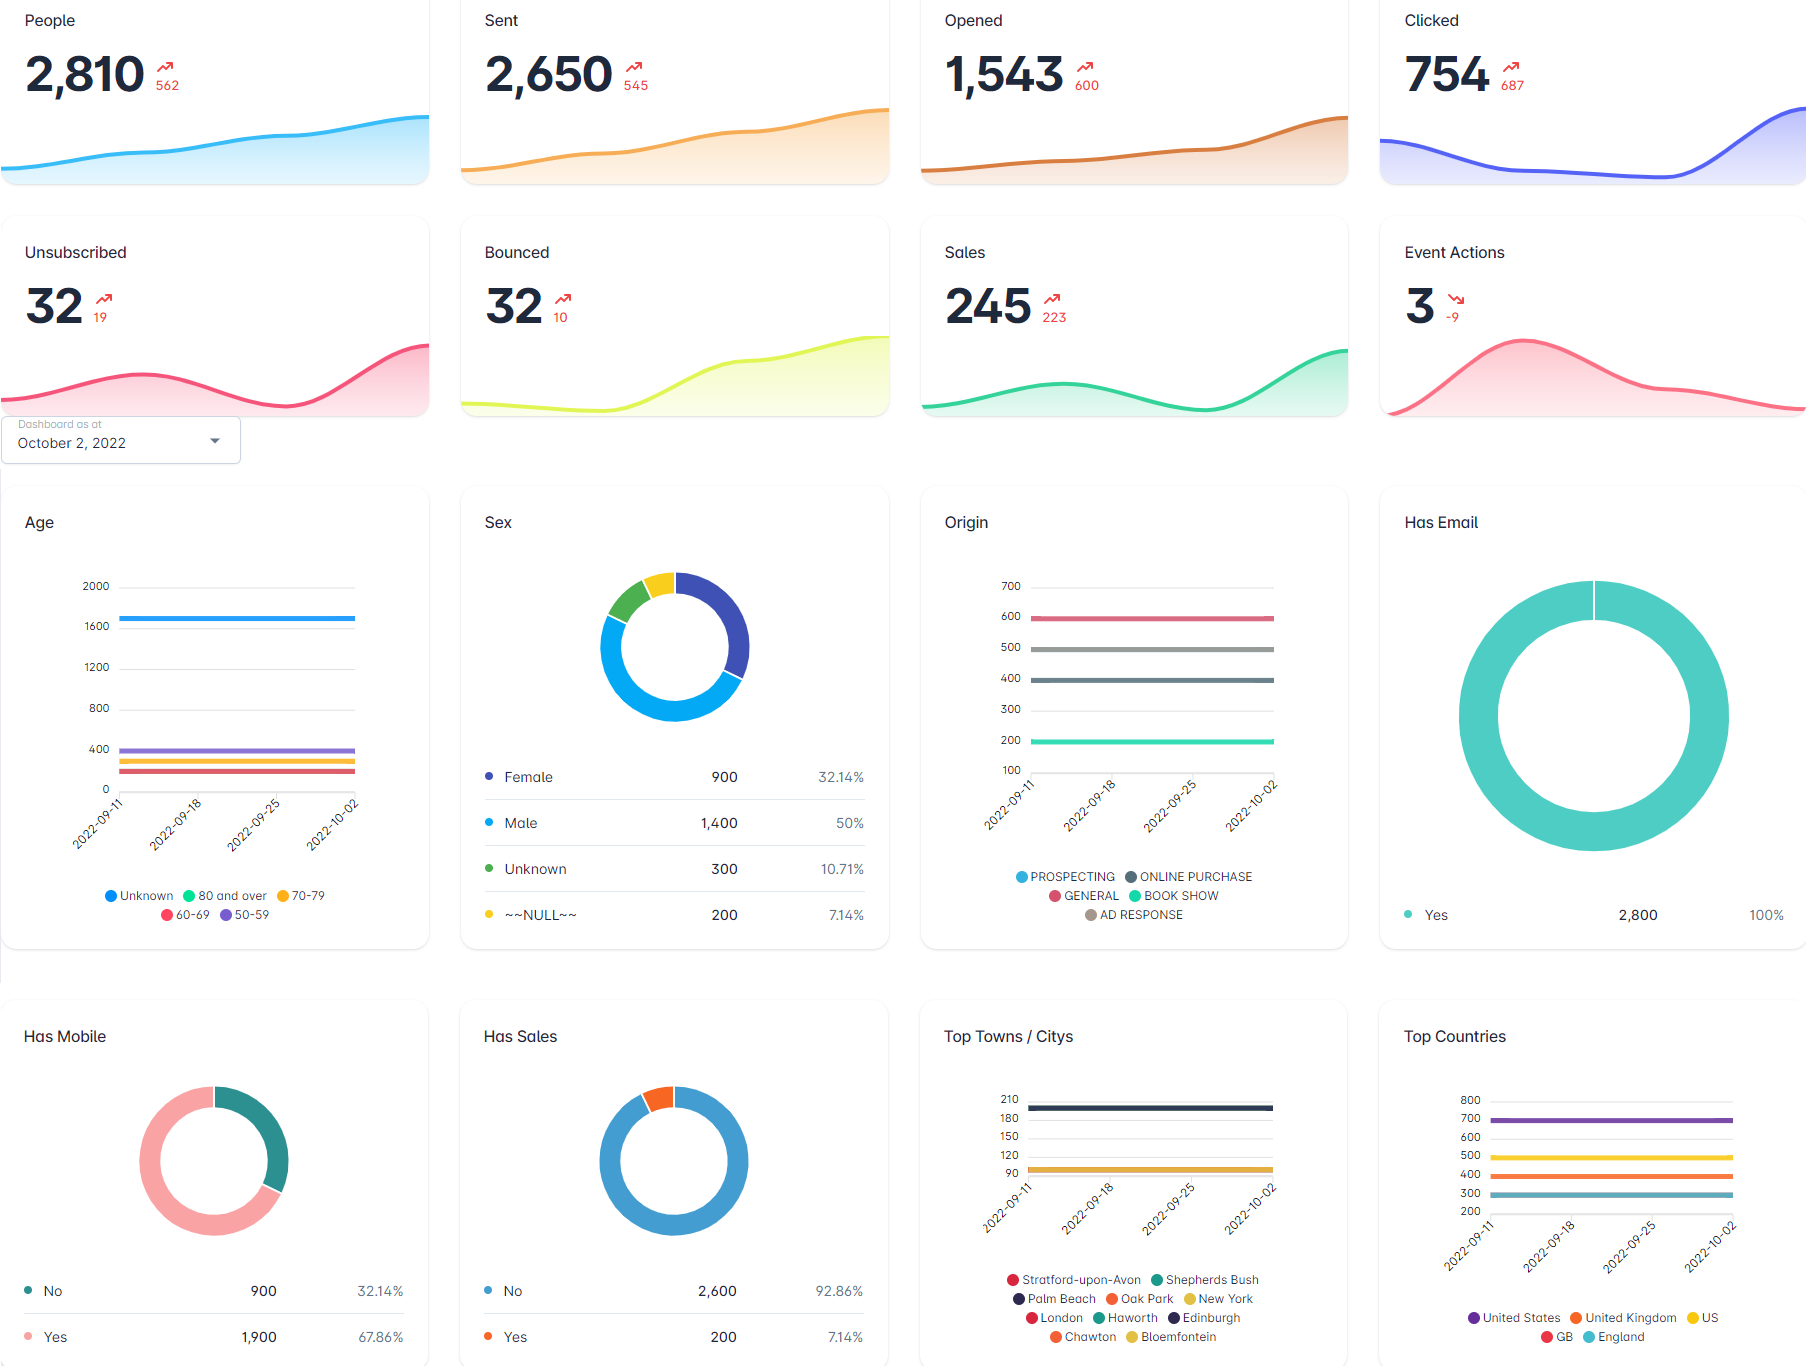
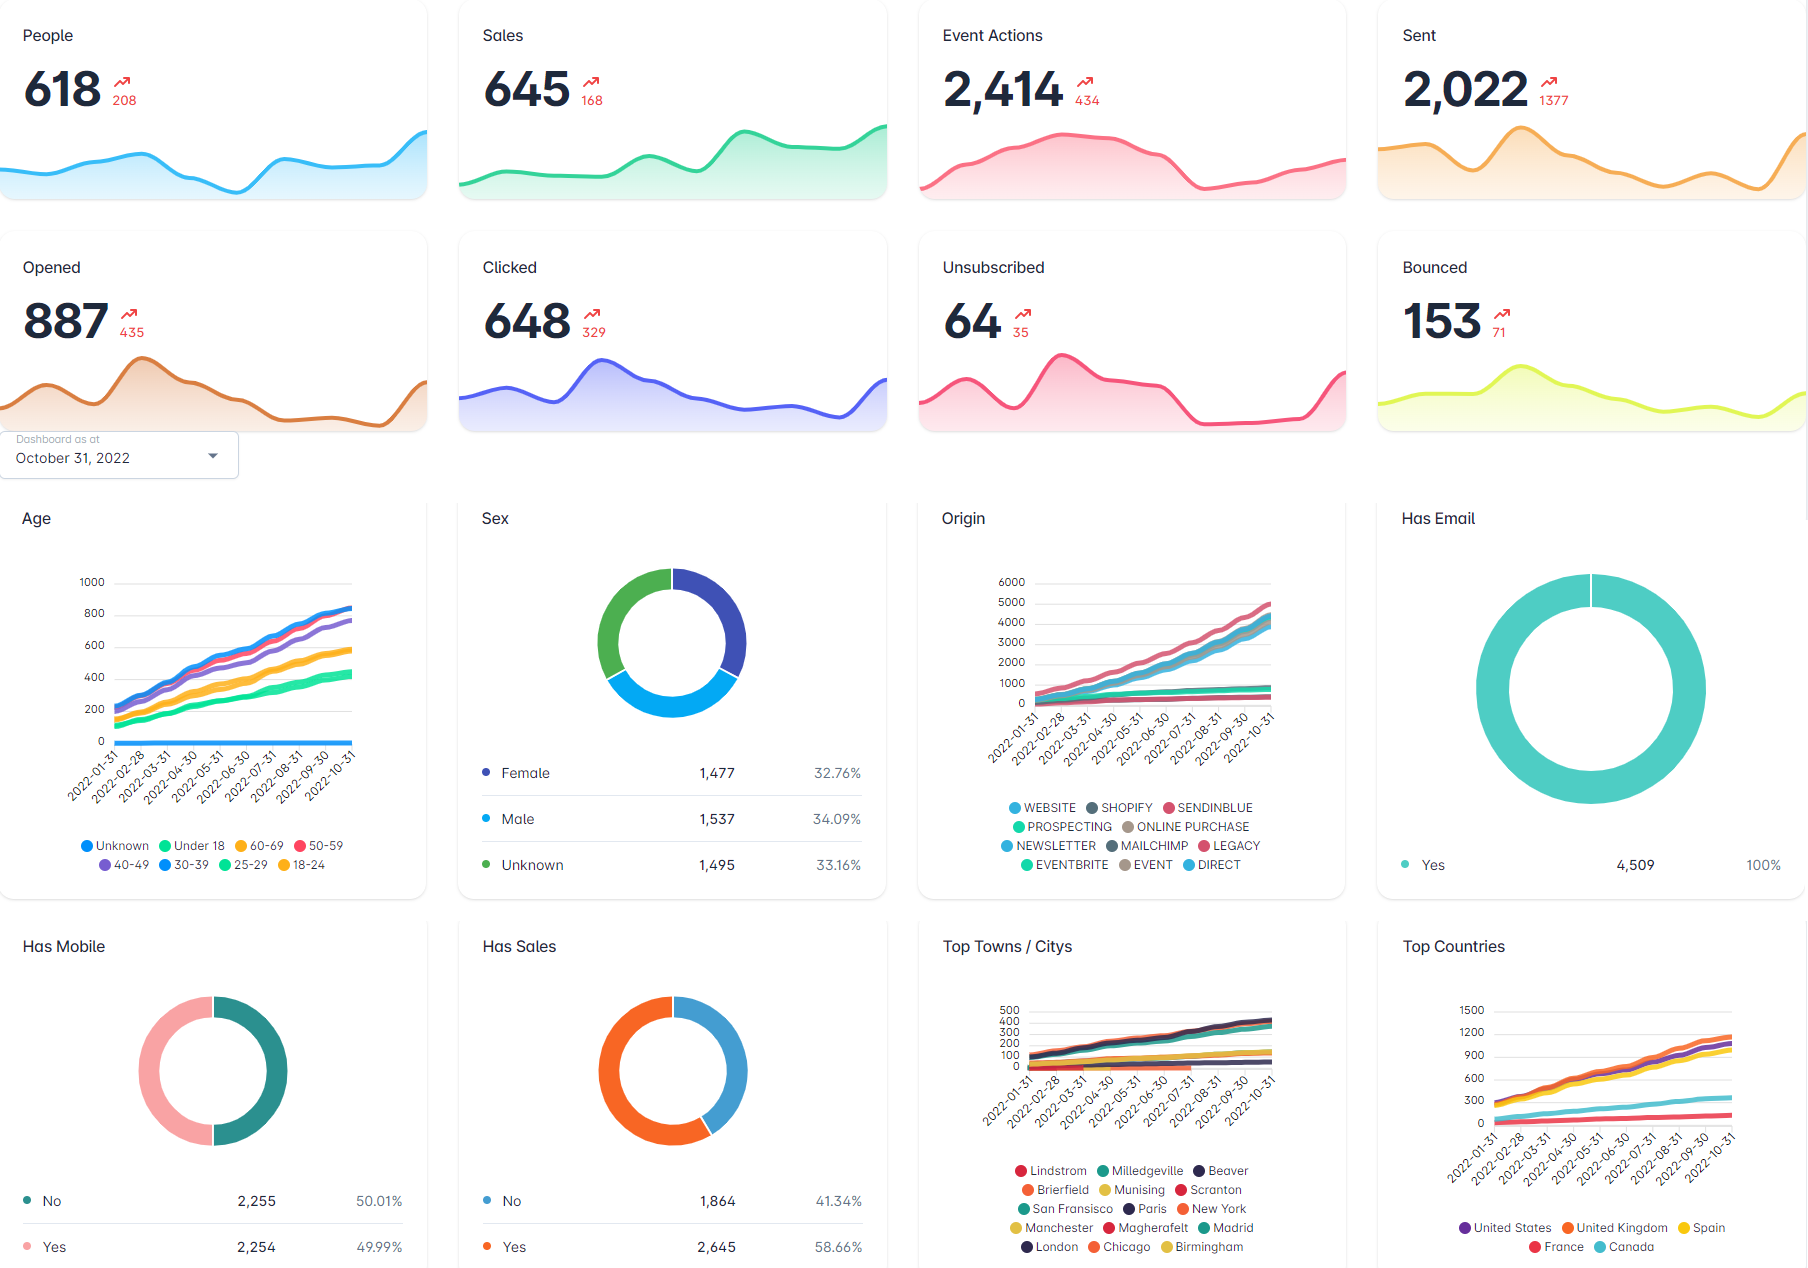
Dashboard tweaks

diff --git a/src/app/main/dashboard/dashboard.component.html b/src/app/main/dashboard/dashboard.component.html
@@ -15,21 +15,23 @@
                         </div>
                     </div>
 
-                    <div *ngIf="emptyDashboard" class="p-3">
-                        <p class="label-bold">Your dashboard doesn't have any data yet. You can see a sample below of what your dashboard could look like</p>
-                        <p class="">Load customer data from integrations (such as Mailchimp, Sendinblue, Shopify or EventBrite)
-                            or import data from files. Your dashboard will be populated as soon as you load some data and new dashboards are built daily, weekly or on-demand, depending on your plan</p>
-                        <p>For help on getting started visit our <a
-                            href="https://dymazoo.freshdesk.com/support/home" target="_blank">Support</a> site or
-                            check out our <a href="https://www.youtube.com/@dymazoo" target="_blank">YouTube channel</a></p>
-                        <div class="proxy_dashboard"></div>
-                    </div>
                     <div *ngIf="emptyDashboard || dataReady" class="flex flex-col gt-xs:flex-row">
                         <div class='div-block'>
                             <mat-icon class="cursor-pointer" (click)="forceRefreshDashboard()">
                                 refresh
                             </mat-icon>
                         </div>
+                    </div>
+
+                    <div *ngIf="emptyDashboard" class="p-3">
+                        <h2 class="text-2xl font-semibold">Your dashboard doesn't have any data yet. Check out a sample below of what it could look like</h2>
+                        <h2>Load customer data from integrations (such as Mailchimp, Sendinblue, Shopify or EventBrite)
+                            or import data from files.</h2>
+                        <h2>New dashboards are built weekly or monthly, depending on your plan.
+                            For help on getting started, please visit <a
+                            href="https://dymazoo.freshdesk.com/support/home" target="_blank">support</a> or
+                            <a href="https://www.youtube.com/@dymazoo" target="_blank">our videos tutorials</a></h2>
+                        <div class="proxy_dashboard"></div>
                     </div>
                 </div>
 
@@ -69,6 +71,76 @@
                                 [tooltip]="chartPeople.tooltip"
                                 [xaxis]="chartPeople.xaxis"
                                 [yaxis]="chartPeople.yaxis"></apx-chart>
+                        </div>
+                    </div>
+
+                    <!-- Sales -->
+                    <div *ngIf="showSales"
+                         class="sm:col-span-1 lg:col-span-1 flex flex-col flex-auto bg-card shadow rounded-2xl overflow-hidden">
+                        <div class="flex items-start justify-between m-6 mb-0">
+                            <div class="text-lg font-medium tracking-tight leading-6 truncate">Sales</div>
+                        </div>
+                        <div class="flex flex-col lg:flex-row lg:items-center mx-6 mt-3">
+                            <div
+                                class="text-7xl font-bold tracking-tighter leading-tight">{{salesData.amount | number:'1.0-0'}}</div>
+                            <div class="flex lg:flex-col lg:ml-3">
+                                <mat-icon *ngIf="salesData.trend < 0"
+                                          class="icon-size-5 text-red-500"
+                                          [svgIcon]="'heroicons_solid:trending-down'"></mat-icon>
+                                <mat-icon *ngIf="salesData.trend >= 0"
+                                          class="icon-size-5 text-red-500"
+                                          [svgIcon]="'heroicons_solid:trending-up'"></mat-icon>
+                                <div
+                                    class="flex items-center ml-1 lg:ml-0 lg:mt-0.5 text-md leading-none whitespace-nowrap text-secondary">
+                                    <span class="font-medium text-red-500">{{ salesData.trend }}</span>
+                                </div>
+                            </div>
+                        </div>
+                        <div class="flex flex-col flex-auto h-20">
+                            <apx-chart
+                                class="flex-auto w-full h-full"
+                                [chart]="chartSales.chart"
+                                [colors]="chartSales.colors"
+                                [series]="chartSales.series"
+                                [stroke]="chartSales.stroke"
+                                [tooltip]="chartSales.tooltip"
+                                [xaxis]="chartSales.xaxis"
+                                [yaxis]="chartSales.yaxis"></apx-chart>
+                        </div>
+                    </div>
+
+                    <!-- Events -->
+                    <div *ngIf="showEvents"
+                         class="sm:col-span-1 lg:col-span-1 flex flex-col flex-auto bg-card shadow rounded-2xl overflow-hidden">
+                        <div class="flex items-start justify-between m-6 mb-0">
+                            <div class="text-lg font-medium tracking-tight leading-6 truncate">Event Actions</div>
+                        </div>
+                        <div class="flex flex-col lg:flex-row lg:items-center mx-6 mt-3">
+                            <div
+                                class="text-7xl font-bold tracking-tighter leading-tight">{{eventsData.amount | number:'1.0-0'}}</div>
+                            <div class="flex lg:flex-col lg:ml-3">
+                                <mat-icon *ngIf="eventsData.trend < 0"
+                                          class="icon-size-5 text-red-500"
+                                          [svgIcon]="'heroicons_solid:trending-down'"></mat-icon>
+                                <mat-icon *ngIf="eventsData.trend >= 0"
+                                          class="icon-size-5 text-red-500"
+                                          [svgIcon]="'heroicons_solid:trending-up'"></mat-icon>
+                                <div
+                                    class="flex items-center ml-1 lg:ml-0 lg:mt-0.5 text-md leading-none whitespace-nowrap text-secondary">
+                                    <span class="font-medium text-red-500">{{ eventsData.trend }}</span>
+                                </div>
+                            </div>
+                        </div>
+                        <div class="flex flex-col flex-auto h-20">
+                            <apx-chart
+                                class="flex-auto w-full h-full"
+                                [chart]="chartEvents.chart"
+                                [colors]="chartEvents.colors"
+                                [series]="chartEvents.series"
+                                [stroke]="chartEvents.stroke"
+                                [tooltip]="chartEvents.tooltip"
+                                [xaxis]="chartEvents.xaxis"
+                                [yaxis]="chartEvents.yaxis"></apx-chart>
                         </div>
                     </div>
 
@@ -244,76 +316,6 @@
                                 [tooltip]="chartBounce.tooltip"
                                 [xaxis]="chartBounce.xaxis"
                                 [yaxis]="chartBounce.yaxis"></apx-chart>
-                        </div>
-                    </div>
-
-                    <!-- Sales -->
-                    <div *ngIf="showSales"
-                        class="sm:col-span-1 lg:col-span-1 flex flex-col flex-auto bg-card shadow rounded-2xl overflow-hidden">
-                        <div class="flex items-start justify-between m-6 mb-0">
-                            <div class="text-lg font-medium tracking-tight leading-6 truncate">Sales</div>
-                        </div>
-                        <div class="flex flex-col lg:flex-row lg:items-center mx-6 mt-3">
-                            <div
-                                class="text-7xl font-bold tracking-tighter leading-tight">{{salesData.amount | number:'1.0-0'}}</div>
-                            <div class="flex lg:flex-col lg:ml-3">
-                                <mat-icon *ngIf="salesData.trend < 0"
-                                          class="icon-size-5 text-red-500"
-                                          [svgIcon]="'heroicons_solid:trending-down'"></mat-icon>
-                                <mat-icon *ngIf="salesData.trend >= 0"
-                                          class="icon-size-5 text-red-500"
-                                          [svgIcon]="'heroicons_solid:trending-up'"></mat-icon>
-                                <div
-                                    class="flex items-center ml-1 lg:ml-0 lg:mt-0.5 text-md leading-none whitespace-nowrap text-secondary">
-                                    <span class="font-medium text-red-500">{{ salesData.trend }}</span>
-                                </div>
-                            </div>
-                        </div>
-                        <div class="flex flex-col flex-auto h-20">
-                            <apx-chart
-                                class="flex-auto w-full h-full"
-                                [chart]="chartSales.chart"
-                                [colors]="chartSales.colors"
-                                [series]="chartSales.series"
-                                [stroke]="chartSales.stroke"
-                                [tooltip]="chartSales.tooltip"
-                                [xaxis]="chartSales.xaxis"
-                                [yaxis]="chartSales.yaxis"></apx-chart>
-                        </div>
-                    </div>
-
-                    <!-- Events -->
-                    <div *ngIf="showEvents"
-                        class="sm:col-span-1 lg:col-span-1 flex flex-col flex-auto bg-card shadow rounded-2xl overflow-hidden">
-                        <div class="flex items-start justify-between m-6 mb-0">
-                            <div class="text-lg font-medium tracking-tight leading-6 truncate">Event Actions</div>
-                        </div>
-                        <div class="flex flex-col lg:flex-row lg:items-center mx-6 mt-3">
-                            <div
-                                class="text-7xl font-bold tracking-tighter leading-tight">{{eventsData.amount | number:'1.0-0'}}</div>
-                            <div class="flex lg:flex-col lg:ml-3">
-                                <mat-icon *ngIf="eventsData.trend < 0"
-                                          class="icon-size-5 text-red-500"
-                                          [svgIcon]="'heroicons_solid:trending-down'"></mat-icon>
-                                <mat-icon *ngIf="eventsData.trend >= 0"
-                                          class="icon-size-5 text-red-500"
-                                          [svgIcon]="'heroicons_solid:trending-up'"></mat-icon>
-                                <div
-                                    class="flex items-center ml-1 lg:ml-0 lg:mt-0.5 text-md leading-none whitespace-nowrap text-secondary">
-                                    <span class="font-medium text-red-500">{{ eventsData.trend }}</span>
-                                </div>
-                            </div>
-                        </div>
-                        <div class="flex flex-col flex-auto h-20">
-                            <apx-chart
-                                class="flex-auto w-full h-full"
-                                [chart]="chartEvents.chart"
-                                [colors]="chartEvents.colors"
-                                [series]="chartEvents.series"
-                                [stroke]="chartEvents.stroke"
-                                [tooltip]="chartEvents.tooltip"
-                                [xaxis]="chartEvents.xaxis"
-                                [yaxis]="chartEvents.yaxis"></apx-chart>
                         </div>
                     </div>
                 </div>
